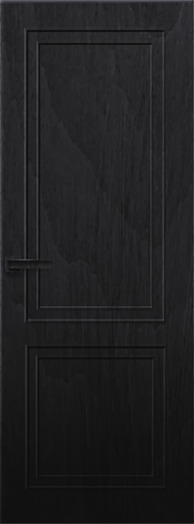
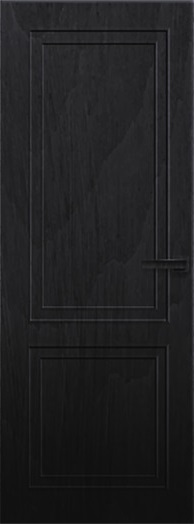
model 3d

diff --git a/src/pages/Tjs.js b/src/pages/Tjs.js
@@ -1,6 +1,6 @@
 
-import React, { useRef, useState, Suspense } from 'react'
-import { Canvas,useLoader ,useFrame } from '@react-three/fiber'
+import React, { useRef, useState, Suspense,MathUtils } from 'react'
+import { Canvas,useLoader ,useFrame ,useThree } from '@react-three/fiber'
 import M1 from '../assets/img/cuarto/puerta.jpg'
 import M2 from '../assets/img/cuarto/pared.jpg'
 import M3 from '../assets/img/cuarto/galaxia.jpg'
@@ -10,7 +10,7 @@ import { TextureLoader } from 'three/src/loaders/TextureLoader'
 import cursors from '../assets/img/nave.png'
 import cursors1 from '../assets/img/telescopio.png'
 import Model from '../components/Model'
-
+import {CameraShake} from '@react-three/drei'
 import * as THREE from 'three'
 // import { LoadingSpinner } from 'video-react'
 import { LoadingManager } from 'three'
@@ -49,28 +49,21 @@ function Box(props) {
 
 function Cuadro(){
   const [clicked,setClicked]=useState(false);
+  const [abrir,setabrir]=useState(false);
   const markedRef=useRef();
   const vec=new THREE.Vector3();
 
 
-    const mesh = useRef()
+  
     const colorMap = useLoader(TextureLoader, Mc)
     //useFrame((state, delta) => (mesh.current.rotation.z += 0.01))
 
 
-    useFrame(state=>{
-      if(clicked){
-        state.camera.lookAt(markedRef.current.position)
-        state.camera.position.lerp(vec.set(-3,20,-20),.01)
-        state.camera.updateProjectionMatrix()
-      }return null;
-    }
 
-    );
     return(
         <mesh
 
-        position={[-3,1, 0]}
+        position={[-3,1, 0.2]}
         ref={markedRef}
         onClick={() => setClicked(!clicked)}
         >
@@ -82,33 +75,62 @@ function Cuadro(){
   }
 
   function Puerta(){
-   // useFrame((state, delta) => (mesh.current.rotation.y += 0.01))
+  const [abrir,setabrir]=useState(false);
+  const [cerrar,setcerrar]=useState(false);
+
    let ref
    let pos
-   
-    
-    
-   pos=[0,-0.7, 0]
-    ref =group => group.rotateY(Math.PI/4)
-    pos=[0,-0.7, 0.59]
+  
    const mesh = useRef()
     const colorMap = useLoader(TextureLoader, M1)
+  // ref =group => group.rotateY(5*Math.PI/3)
+   //pos=[0.5,-0.7, 0.75]
+    useFrame((state) => {
+      if(abrir){
+        setTimeout(function(){
+          mesh.current.position.x=-0.5
+          mesh.current.position.y=-0.7
+          mesh.current.position.z=0.75
+          mesh.current.rotation.y = (5*Math.PI/3)
+        },200);
+       
+         // pos=[0.5,-0.7, 0.75]
+         return null;
+      }
+      if(!cerrar){
+        setTimeout(function(){
+        mesh.current.position.x=0
+        mesh.current.position.y=-0.7
+        mesh.current.position.z=0.1
+        mesh.current.rotation.y = (Math.PI)
+        },200);
+          return null;
+      }
+      
+    })
    
+
+    
     return(
       <group ref={ref}>
         <mesh
                 position={pos}
                 ref={mesh}
-                onPointerEnter={(e) => 
+                onPointerEnter={(e) => {
+                  setabrir(true)
                   document.body.style.cursor='url('+cursors+'), auto'
-               
+                }
                 } 
-                onPointerOut={(e) =>
+                onPointerOut={(e) =>{
+                  setabrir(false)
                   document.body.style.cursor='url('+cursors1+'), auto'
-                
-                } // see note 1
+                }
+                } 
                 >
+                
                     <boxGeometry args={[1.8,4,0.09]}  />
+                    <pointLight position={[0, -0.7, -0.05]} intensity={1} color="#fff" />
+                    <directionalLight color="white" intensity={0.1} position={[-1, -0.7, -8]} rotation={[0,0,0]}/>
                     <meshStandardMaterial map={colorMap} />
                 </mesh>
       </group>
@@ -133,14 +155,28 @@ function Cuadro(){
     );
   }
   function Galaxia(){
+    const [clicks,setClick]=useState(false);
+    const [clicked,setClicked]=useState(false);
     const mesh = useRef()
     const colorMap = useLoader(TextureLoader, M3)
-    //useFrame((state, delta) => (mesh.current.rotation.z += 0.01))
+    const vec=new THREE.Vector3();
+   
+    useFrame(state=>{
+      if(clicked){
+        state.camera.lookAt(mesh.current.position)
+        state.camera.position.lerp(vec.set(0,0,0),.03)
+        state.camera.updateProjectionMatrix()
+        window.open("http://localhost:3000/", "_self");
+      }
+      return null;
+    });
+
+    
     return(
         <mesh
-        position={[0,-0.7, 0]}
+        position={[0,-0.7, 0.06]}
         ref={mesh}
-       
+        onClick={() => setClicked(!clicked)}
       
         >
             <boxGeometry args={[1.8,4,0]}  />
@@ -151,18 +187,89 @@ function Cuadro(){
   function Pared(){
     const mesh = useRef()
     const colorMap = useLoader(TextureLoader, M2)
+    //mesh.current.rotation.y, (-state.mouse.x * Math.PI) / 6, 2.75, delta
+   //useFrame((state, delta) => void (mesh.current.rotation.y =(-state.mouse.x * Math.PI) ))
     //useFrame((state, delta) => (mesh.current.rotation.z += 0.01))
     return(
         <mesh
-        position={[0,0, 0]}
+        position={[0,0,  -0.3]}
         ref={mesh}
         >
-            <boxGeometry args={[13.99,7.7,0]}  />
+            <boxGeometry args={[13.99,9,0]}  />
             <meshStandardMaterial map={colorMap}/>
         </mesh>
  
     );
   }
+
+  function ParedD(){
+    const mesh = useRef()
+    const colorMap = useLoader(TextureLoader, M2)
+    //mesh.current.rotation.y, (-state.mouse.x * Math.PI) / 6, 2.75, delta
+   //useFrame((state, delta) => void (mesh.current.rotation.y =(-state.mouse.x * Math.PI) ))
+    //useFrame((state, delta) => (mesh.current.rotation.z += 0.01))
+
+    let ref
+    let pos
+     ref =group => group.rotateY(5*Math.PI/3)
+   pos=[5,-0.1, -4]
+    return(
+      <group ref={ref}>
+        <mesh
+       position={pos}
+      
+        ref={mesh}
+        >
+              <boxGeometry args={[5,8,0]}  />
+            <meshStandardMaterial map={colorMap}/>
+        </mesh>
+       </group>
+    );
+  }
+
+  function ParedI(){
+    const mesh = useRef()
+    const colorMap = useLoader(TextureLoader, M2)
+    let ref
+    let pos
+     ref =group => group.rotateY(Math.PI/4)
+   pos=[-7,-0.1, -5]
+    return(
+      <group ref={ref}>
+        <mesh
+       position={pos}
+      
+        ref={mesh}
+        >
+               <boxGeometry args={[5,8,0]}  />
+            <meshStandardMaterial map={colorMap}/>
+        </mesh>
+       </group>
+    );
+  }
+
+  function Suelo(){
+    const mesh = useRef()
+    const colorMap = useLoader(TextureLoader, M2)
+    let ref
+    let pos
+     ref =group => group.rotateX(Math.PI/4)
+   pos=[-7,-0.1, -5]
+    return(
+      <group ref={ref}>
+        <mesh
+       position={pos}
+      
+        ref={mesh}
+        >
+               <boxGeometry args={[5,8,0]}  />
+            <meshStandardMaterial map={colorMap}/>
+        </mesh>
+       </group>
+    );
+  }
+
+
 
   
  
@@ -178,15 +285,24 @@ function Cuadro(){
   }
  
 
-
-
+// 05 01 04
+function Rig() {
+  const [vec] = useState(() => new THREE.Vector3())
+  const { camera, mouse } = useThree()
+  useFrame(() => camera.position.lerp(vec.set(mouse.x * 0.5, 0, 5), 0.01))
+  return <CameraShake maxYaw={0.01} maxPitch={0.01} maxRoll={0.01} yawFrequency={0.5} pitchFrequency={0.5} rollFrequency={0.4} />
+}
 return(
   <Canvas style={{height:'100vh'}}>
    
-     <ambientLight intensity={0.5} />
-            <ambientLight intensity={0.1} />
-            <directionalLight intensity={0.4} />
+     <ambientLight intensity={0.2} />
+            <ambientLight intensity={0.05} />
+            <directionalLight intensity={0.05} />
+           <Rig/>
      <Pared/>
+     <ParedD/>
+     <ParedI/>
+     <Suelo/>
      <Marco/>
      <Galaxia/>
      <Puerta/>
